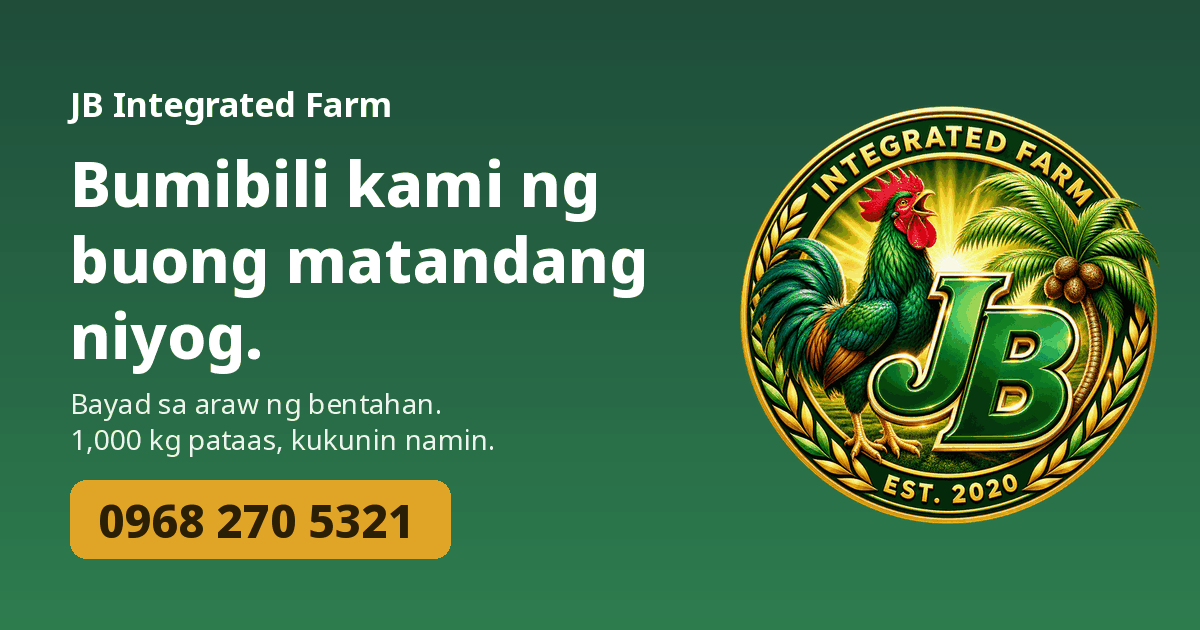
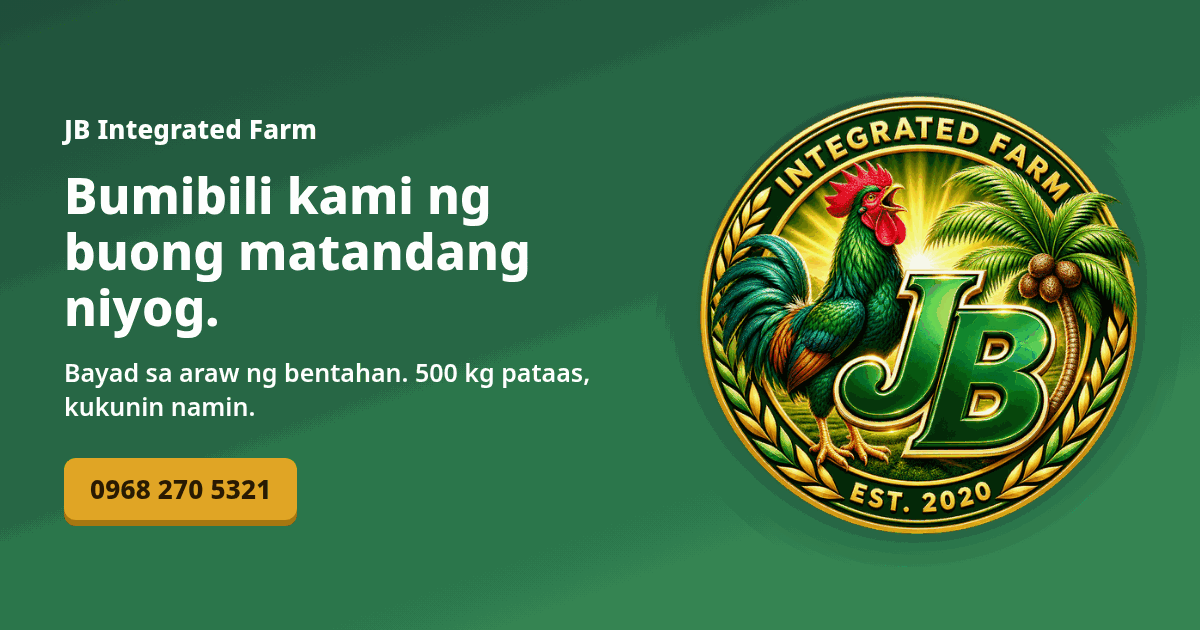
feat(buying): lower pickup threshold to 500 kg (v1.6.7) (#9)
Pickup from the seller location now starts at 500 kg (was 1,000 kg). Updates /buying copy, FAQ JSON-LD, share image, tests, and SW cache.

diff --git a/buying/index.html b/buying/index.html
@@ -4,7 +4,7 @@
 <meta charset="utf-8">
 <meta name="viewport" content="width=device-width,initial-scale=1,viewport-fit=cover">
 <title>Magbenta ng Buong Niyog sa JB Integrated Farm | Tawag 0968 270 5321</title>
-<meta name="description" content="Bumibili kami ng buong matandang niyog. Kami na ang gagawa ng kopra. Bayad ka sa araw ng bentahan. 1,000 kg pataas, kukunin namin sa inyong lugar. Wala pang 1,000 kg? Dalhin sa amin sa Purok 2, Ohong-Duque Road, Taguibo, Butuan City. Tawag 0968 270 5321.">
+<meta name="description" content="Bumibili kami ng buong matandang niyog. Kami na ang gagawa ng kopra. Bayad ka sa araw ng bentahan. 500 kg pataas, kukunin namin sa inyong lugar. Wala pang 500 kg? Dalhin sa amin sa Purok 2, Ohong-Duque Road, Taguibo, Butuan City. Tawag 0968 270 5321.">
 <link rel="canonical" href="https://jbfarmco.com/buying">
 <meta name="theme-color" content="#1f4d3a">
 <meta property="og:type" content="website">
@@ -69,15 +69,15 @@
 "name": "Kukunin ba ninyo ang niyog sa amin?",
 "acceptedAnswer": {
 "@type": "Answer",
-"text": "Oo po, kung 1,000 kg pataas, kukunin namin sa inyong lugar. Tawag lang para ma-schedule."
+"text": "Oo po, kung 500 kg pataas, kukunin namin sa inyong lugar. Tawag lang para ma-schedule."
 }
 },
 {
 "@type": "Question",
-"name": "Wala pang 1,000 kg? Dalhin sa amin.",
+"name": "Wala pang 500 kg? Dalhin sa amin.",
 "acceptedAnswer": {
 "@type": "Answer",
-"text": "Kung wala pang 1,000 kg, ikaw po ang magdadala ng niyog sa amin: Purok 2, Ohong-Duque Road, Taguibo, Butuan City. Tawag muna sa 0968 270 5321 bago pumunta."
+"text": "Kung wala pang 500 kg, ikaw po ang magdadala ng niyog sa amin: Purok 2, Ohong-Duque Road, Taguibo, Butuan City. Tawag muna sa 0968 270 5321 bago pumunta."
 }
 },
 {
@@ -178,7 +178,7 @@ footer{text-align:center;color:var(--m);font-size:14px;padding:22px 0 30px}
   <a class="big call" href="tel:+639682705321">📞 Tawag: 0968 270 5321</a>
   <a class="big sms" href="sms:+639682705321?body=Magandang%20araw%20po%2C%20magbebenta%20po%20ako%20ng%20buong%20matandang%20niyog.%20Ilang%20kilo%3A%20__%20.%20Lugar%3A%20__">💬 Mag-text para sa presyo</a>
  </div>
- <p class="note">1,000 kg pataas? Kukunin namin sa inyong lugar. Wala pang 1,000 kg? Dalhin sa amin sa Purok 2, Ohong-Duque Road, Taguibo, Butuan City.</p>
+ <p class="note">500 kg pataas? Kukunin namin sa inyong lugar. Wala pang 500 kg? Dalhin sa amin sa Purok 2, Ohong-Duque Road, Taguibo, Butuan City.</p>
 </div></div>
 
 <section><div class="wrap">
@@ -189,7 +189,7 @@ footer{text-align:center;color:var(--m);font-size:14px;padding:22px 0 30px}
   <div class="card"><span class="ic">🥥</span><h3>Buo na lang, walang kopra-kopra</h3><p>Hindi mo na kailangang magbalat, magbiyak at magpatuyo. Kami na ang gagawa ng kopra.</p></div>
   <div class="card"><span class="ic">🤝</span><h3>Pinahahalagahan namin ang effort mo</h3><p>Alam namin ang pagod ng mga magsasaka, kaya reasonable ang presyo namin.</p></div>
   <div class="card"><span class="ic">💵</span><h3>Bayad sa araw ng bentahan</h3><p>Hindi ka na maghihintay. Bayad ka sa mismong araw na nagbenta ka.</p></div>
-  <div class="card"><span class="ic">🚚</span><h3>1,000 kg pataas, kukunin namin</h3><p>Kung 1,000 kg pataas ang niyog mo, kukunin namin sa inyong lugar. Wala pang 1,000 kg? Dalhin sa amin sa Purok 2, Ohong-Duque Road, Taguibo, Butuan City.</p></div>
+  <div class="card"><span class="ic">🚚</span><h3>500 kg pataas, kukunin namin</h3><p>Kung 500 kg pataas ang niyog mo, kukunin namin sa inyong lugar. Wala pang 500 kg? Dalhin sa amin sa Purok 2, Ohong-Duque Road, Taguibo, Butuan City.</p></div>
   <div class="card"><span class="ic">📞</span><h3>Isang tawag lang</h3><p>Tawag, text o WhatsApp sa 0968 270 5321. Simple lang ang usapan.</p></div>
  </div>
 </div></section>
@@ -212,7 +212,7 @@ footer{text-align:center;color:var(--m);font-size:14px;padding:22px 0 30px}
  <p class="sub">Walang komplikado.</p>
  <div class="grid g4">
   <div class="card step"><span class="num">1</span><h3>Tawag o text</h3><p>Sabihin ang dami at lugar.</p></div>
-  <div class="card step"><span class="num">2</span><h3>Usapan</h3><p>Pag-usapan ang presyo. 1,000 kg pataas, pickup sa inyong lugar. Wala pang 1,000 kg, dalhin sa aming address.</p></div>
+  <div class="card step"><span class="num">2</span><h3>Usapan</h3><p>Pag-usapan ang presyo. 500 kg pataas, pickup sa inyong lugar. Wala pang 500 kg, dalhin sa aming address.</p></div>
   <div class="card step"><span class="num">3</span><h3>Bentahan</h3><p>Bentahan at bayad sa araw na iyon.</p></div>
   <div class="card step"><span class="num">4</span><h3>Kami na ang bahala</h3><p>Kami na ang bahala sa kopra.</p></div>
  </div>
@@ -221,7 +221,7 @@ footer{text-align:center;color:var(--m);font-size:14px;padding:22px 0 30px}
 <section id="saan"><div class="wrap">
  <p class="kick">Saan kami</p>
  <h2>Dalhin dito</h2>
- <p class="sub">1,000 kg pataas: kukunin namin sa inyong lugar. Wala pang 1,000 kg: dalhin ang niyog sa aming address.</p>
+ <p class="sub">500 kg pataas: kukunin namin sa inyong lugar. Wala pang 500 kg: dalhin ang niyog sa aming address.</p>
  <div class="card" id="addr"><span class="ic">📍</span><h3>JB Integrated Farm</h3><p><b>Purok 2, Ohong-Duque Road, Taguibo, Butuan City</b></p><p class="small">Tawag muna sa <a href="tel:+639682705321">0968 270 5321</a> bago pumunta.</p><a class="big call" href="https://www.google.com/maps/search/?api=1&amp;query=Purok+2%2C+Ohong-Duque+Road%2C+Taguibo%2C+Butuan+City" target="_blank" rel="noopener" style="max-width:420px">🗺 Buksan sa Google Maps</a></div>
 </div></section>
 
@@ -254,8 +254,8 @@ footer{text-align:center;color:var(--m);font-size:14px;padding:22px 0 30px}
   <details><summary>Kailangan ko pa bang gawing kopra?</summary><p>Hindi na po. Kami na ang bahala sa kopra. Ibenta mo lang ang buong matandang niyog.</p></details>
   <details><summary>Magkano ang bili ninyo?</summary><p>Nagbabago ang presyo ayon sa merkado. Tawag o text lang sa 0968 270 5321 para sa presyo ngayon.</p></details>
   <details><summary>Kailan ako mababayaran?</summary><p>Bayad ka sa araw ng bentahan.</p></details>
-  <details><summary>Kukunin ba ninyo ang niyog sa amin?</summary><p>Oo po, kung 1,000 kg pataas, kukunin namin sa inyong lugar. Tawag lang para ma-schedule.</p></details>
-  <details><summary>Wala pang 1,000 kg? Dalhin sa amin.</summary><p>Kung wala pang 1,000 kg, ikaw po ang magdadala ng niyog sa amin: Purok 2, Ohong-Duque Road, Taguibo, Butuan City. Tawag muna sa 0968 270 5321 bago pumunta.</p></details>
+  <details><summary>Kukunin ba ninyo ang niyog sa amin?</summary><p>Oo po, kung 500 kg pataas, kukunin namin sa inyong lugar. Tawag lang para ma-schedule.</p></details>
+  <details><summary>Wala pang 500 kg? Dalhin sa amin.</summary><p>Kung wala pang 500 kg, ikaw po ang magdadala ng niyog sa amin: Purok 2, Ohong-Duque Road, Taguibo, Butuan City. Tawag muna sa 0968 270 5321 bago pumunta.</p></details>
   <details><summary>Ano ang kailangan kong sabihin pag tumawag ako?</summary><p>Ilang kilo ang niyog mo (kahit tantya lang) at saan ang lugar mo. Yun lang muna.</p></details>
   <details><summary>Paano kayo makokontak?</summary><p>Tawag o text sa 0968 270 5321. Pwede rin sa WhatsApp, parehong numero.</p></details>
  </div>

diff --git a/tests/brand.test.js b/tests/brand.test.js
@@ -17,15 +17,15 @@ test('buying page SEO, JSON-LD and no price claim',()=>{const b=rd('buying/index
   const ld=[...b.matchAll(/<script type="application\/ld\+json">([\s\S]*?)<\/script>/g)].map(m=>JSON.parse(m[1]));const org=ld.find(x=>x['@type']==='LocalBusiness');assert.deepEqual(Object.keys(org).sort(),['@context','@type','address','name','telephone','url']);assert.equal(org.address.addressLocality,'Butuan City');assert.equal(org.address.addressCountry,'PH');assert.equal(org.telephone,'+639682705321');
   const faq=ld.find(x=>x['@type']==='FAQPage');assert.ok(faq.mainEntity.length>=6&&faq.mainEntity.length<=8);
   assert.ok(b.includes("var PRICE_TODAY='';"));assert.ok(!/₱\s*\d|PHP\s*[1-9]/.test(b.replace(/\/\/ PRICE:.*\n/,'')));assert.ok(!b.includes('\u2014'));assert.ok(!/serviceWorker|rel="manifest"/.test(b));assert.ok(fs.existsSync(path.join(ROOT,'buying/og.png')))});
-test('version consistency 1.6.6',()=>{const v=rd('version.js').match(/APP_VERSION='([^']+)'/)[1],s=rd('sw.js').match(/SW_VERSION='([^']+)'/)[1];assert.equal(v,'1.6.6');assert.equal(s,v);assert.ok(rd('README.md').includes('v1.6.6'))});
+test('version consistency 1.6.7',()=>{const v=rd('version.js').match(/APP_VERSION='([^']+)'/)[1],s=rd('sw.js').match(/SW_VERSION='([^']+)'/)[1];assert.equal(v,'1.6.7');assert.equal(s,v);assert.ok(rd('README.md').includes('v1.6.7'))});
 test('SW sends /buying to the network, never the app shell',()=>{const s=rd('sw.js');assert.ok(s.includes('isBuying(u)'));assert.ok(!/respondWith\([^)]*index\.html/.test(s))});
-test('buying offer: whole matured coconuts, tagline, 1,000 kg pickup, no dried copra claim',()=>{const b=rd('buying/index.html');
+test('buying offer: whole matured coconuts, tagline, 500 kg pickup, no dried copra claim',()=>{const b=rd('buying/index.html');
   assert.ok(b.includes('Iwan mo na sa amin ang hassle, kami na ang gagawa ng kopra. Bayad ka sa araw ng bentahan.'));
-  assert.ok(b.includes('1,000 kg pataas, kukunin namin sa inyong lugar')&&!/\b200 ?kg/.test(b));assert.ok(/buong matandang niyog/.test(b)&&!/matured|hinog na hinog|tinatapahan|pagbiyak|pagbabalat|\bdala\b|drop-off/i.test(b));
+  assert.ok(b.includes('500 kg pataas, kukunin namin sa inyong lugar')&&!/\b200 ?kg/.test(b));assert.ok(/buong matandang niyog/.test(b)&&!/matured|hinog na hinog|tinatapahan|pagbiyak|pagbabalat|\bdala\b|drop-off/i.test(b));
   assert.ok(!/dried copra|tuyong kopra|libre|free pickup/i.test(b));assert.ok(!/Tinitimbang sa harap|mismo ang sasagot|depende sa dami/i.test(b));
-  assert.ok(b.includes('Wala pang 1,000 kg? Dalhin sa amin.')&&!b.includes('pinakamainam'));assert.ok(b.includes('Nagbabago ang presyo ayon sa merkado'));assert.ok(b.includes('Tawag para sa presyo ngayon'))});
+  assert.ok(b.includes('Wala pang 500 kg? Dalhin sa amin.')&&!b.includes('pinakamainam'));assert.ok(b.includes('Nagbabago ang presyo ayon sa merkado'));assert.ok(b.includes('Tawag para sa presyo ngayon'))});
 
-test('buying address + below 1,000 kg delivery',()=>{const b=rd('buying/index.html');assert.ok(b.includes('Purok 2, Ohong-Duque Road, Taguibo, Butuan City'));assert.ok(b.includes('Wala pang 1,000 kg? Dalhin sa amin.'));assert.ok(b.includes('google.com/maps/search/?api=1'));assert.ok(/"addressLocality": "Butuan City"/.test(b)&&/"addressCountry": "PH"/.test(b));assert.ok(b.includes('Tawag para sa presyo ngayon'));assert.ok(rd('app.js').includes('Purok 2, Ohong-Duque Road, Taguibo, Butuan City'))});
+test('buying address + below 500 kg delivery',()=>{const b=rd('buying/index.html');assert.ok(b.includes('Purok 2, Ohong-Duque Road, Taguibo, Butuan City'));assert.ok(b.includes('Wala pang 500 kg? Dalhin sa amin.'));assert.ok(b.includes('google.com/maps/search/?api=1'));assert.ok(/"addressLocality": "Butuan City"/.test(b)&&/"addressCountry": "PH"/.test(b));assert.ok(b.includes('Tawag para sa presyo ngayon'));assert.ok(rd('app.js').includes('Purok 2, Ohong-Duque Road, Taguibo, Butuan City'))});
 
 test('v1.6.3 logo files exist, are small, transparent and referenced',()=>{const files=['icons/logo.png','icons/logo-160.png','icons/logo-160.webp','icons/logo-320.webp','icons/favicon-32.png','icons/apple-touch-icon.png','icons/icon-192.png','icons/icon-512.png','icons/og-image.jpg','favicon.ico','buying/og.png'];
   for(const f of files){const p=path.join(ROOT,f);assert.ok(fs.existsSync(p),f);assert.ok(fs.statSync(p).size<150*1024,f+' under 150 KB')}

diff --git a/tests/unit.test.js b/tests/unit.test.js
@@ -106,7 +106,7 @@ test('FIX4 sw never caches Supabase/API/cross-origin; cache name embedded in sw.
   const src=fs.readFileSync(path.join(ROOT,'sw.js'),'utf8');vm.runInNewContext(src+';this.isApi=isApi;this.V=V',ctx);const u=x=>new URL(x);
   assert.ok(ctx.isApi(u('https://abc.supabase.co/rest/v1/batches')));assert.ok(ctx.isApi(u('https://jbfarmco.com/auth/v1/token')));assert.ok(ctx.isApi(u('https://cdn.example.com/x.js')));
   assert.ok(!ctx.isApi(u('https://jbfarmco.com/app.js')));const ver=fs.readFileSync(path.join(ROOT,'version.js'),'utf8').match(/APP_VERSION='([\d.]+)'/)[1];
-  assert.equal(ver,'1.6.6');assert.equal(ctx.V,'kopra-'+ver)});
+  assert.equal(ver,'1.6.7');assert.equal(ctx.V,'kopra-'+ver)});
 test('v1.3.1 BLOCKER1 sw.js embeds the release version (bytes change every release), no importScripts, cache:reload',()=>{const src=fs.readFileSync(path.join(ROOT,'sw.js'),'utf8');
   const ver=fs.readFileSync(path.join(ROOT,'version.js'),'utf8').match(/APP_VERSION='([\d.]+)'/)[1];assert.ok(src.includes(`const SW_VERSION='${ver}'`));assert.ok(!/importScripts/.test(src));assert.ok(src.includes("cache:'reload'"))});
 test('SF CNAME + README signup note',()=>{assert.equal(fs.readFileSync(path.join(ROOT,'CNAME'),'utf8').trim(),'jbfarmco.com');assert.match(fs.readFileSync(path.join(ROOT,'README.md'),'utf8'),/disable.*sign.?ups/i)});

diff --git a/sw.js b/sw.js
@@ -1,6 +1,6 @@
 // JB Integrated Farm app service worker (cache prefix stays kopra- so old caches are cleaned and data is untouched). SW_VERSION MUST equal APP_VERSION in version.js (unit test enforces it).
 // It is embedded here on purpose: browsers only install a new worker when sw.js bytes change.
-const SW_VERSION='1.6.6';
+const SW_VERSION='1.6.7';
 const V='kopra-'+SW_VERSION;
 const F=['./','./index.html','./app.js','./calc.js','./db.js','./sync.js','./seed.js','./version.js','./style.css','./lib/chart.umd.min.js','./manifest.webmanifest','./icons/icon-192.png','./icons/icon-512.png','./icons/logo.png','./icons/logo-160.png','./icons/logo-160.webp','./icons/logo-320.webp','./icons/apple-touch-icon.png','./icons/favicon-32.png','./favicon.ico'];
 // cache:'reload' so a new release never pre-caches stale files from the HTTP cache.

diff --git a/version.js b/version.js
@@ -1,3 +1,3 @@
 // Bump on EVERY release (semver) — and bump SW_VERSION in sw.js to the SAME value (a unit test enforces this).
 // The version string must live inside sw.js itself so its bytes change; otherwise installed phones never see an update.
-self.APP_VERSION='1.6.6';
+self.APP_VERSION='1.6.7';

diff --git a/tests/e2e.py b/tests/e2e.py
@@ -180,7 +180,7 @@ with sync_playwright() as p:
   ctx.set_offline(True);pg.reload();pg.wait_for_function("window.__K");ok("works offline (SW cache)",pg.evaluate("Object.keys(Chart.instances).length")>=4);ctx.set_offline(False)
   ok("no JS errors",not errs,"; ".join(errs[:3]))
   f=b.new_page(viewport={"width":390,"height":844});f.goto(U+"?sync=1");f.wait_for_function("window.__K");f.click("nav button[data-v=more]");ok("SF sync card shown only with flag",f.locator("#synccard").count()==1)
-  ok("version shown v1.4.0","v1.6.6" in f.inner_text("#v-more"))
+  ok("version shown v1.4.0","v1.6.7" in f.inner_text("#v-more"))
   # v1.2 -> v1.3 IndexedDB migration on a phone with existing data
   m=b.new_context(viewport={"width":390,"height":844});mp=m.new_page();mp.goto(U.replace("index.html","manifest.webmanifest"))
   mp.evaluate("""async()=>{const src=await (await fetch('seed.js')).text();const SEED=new Function(src+';return SEED')();
@@ -206,11 +206,11 @@ with sync_playwright() as p:
     up.evaluate("(async()=>{const r=await store.save('batches',{no:11,source:'Phone batch before upgrade',rawKg:1000,buyTotal:9000,copraKg:0})})()");up.wait_for_timeout(300)
     os.remove(base+"/cur");os.symlink(base+"/new",base+"/cur")   # server now serves v1.3.1
     up.evaluate("navigator.serviceWorker.getRegistration().then(r=>r.update())")
-    up.wait_for_function("caches.keys().then(k=>window.__ck=k)&&window.__ck&&window.__ck.length===1&&window.__ck[0]==='kopra-1.6.6'",timeout=20000,polling=300)
+    up.wait_for_function("caches.keys().then(k=>window.__ck=k)&&window.__ck&&window.__ck.length===1&&window.__ck[0]==='kopra-1.6.7'",timeout=20000,polling=300)
     up.reload();up.wait_for_function("window.__K");KU=up.evaluate("window.__K")
-    ok("UPGRADE: SW updated, cache bumped to kopra-1.6.6 (old cache gone), page runs v1.6.6",up.evaluate("self.APP_VERSION")=="1.6.6" and up.evaluate("caches.keys()")==["kopra-1.6.6"] and up.evaluate("fetch('sw.js').then(r=>r.text()).then(t=>t.includes(\"SW_VERSION='1.6.6'\"))"))
+    ok("UPGRADE: SW updated, cache bumped to kopra-1.6.7 (old cache gone), page runs v1.6.7",up.evaluate("self.APP_VERSION")=="1.6.7" and up.evaluate("caches.keys()")==["kopra-1.6.7"] and up.evaluate("fetch('sw.js').then(r=>r.text()).then(t=>t.includes(\"SW_VERSION='1.6.7'\"))"))
     ok("UPGRADE: migration ran (6 sold burns -> pool sales), no data lost",up.evaluate("D.uling_sales.length")==6 and abs(KU['char']['ulingSales']-18693)<.01 and any(r['source']=='Phone batch before upgrade' for r in KU['rows']) and abs(KU['raw']-30366)<.01)
-    uc.set_offline(True);up.reload();up.wait_for_function("window.__K");ok("UPGRADE: v1.6.6 works offline from new cache",up.evaluate("self.APP_VERSION")=="1.6.6");uc.close()
+    uc.set_offline(True);up.reload();up.wait_for_function("window.__K");ok("UPGRADE: v1.6.7 works offline from new cache",up.evaluate("self.APP_VERSION")=="1.6.7");uc.close()
   finally:srv.terminate();srv.wait()
   # ================= v1.4.0 Lifetime tab (example items are TEST-ONLY) =================
   lc=b.new_context(viewport={"width":390,"height":844},device_scale_factor=2,is_mobile=True,has_touch=True);lp=lc.new_page();lerr=[];lp.on("pageerror",lambda e:lerr.append(str(e)))

diff --git a/README.md b/README.md
@@ -1,5 +1,8 @@
-# JB Integrated Farm (formerly Kopra Ko): offline copra + uling tracker (PWA) v1.6.6
+# JB Integrated Farm (formerly Kopra Ko): offline copra + uling tracker (PWA) v1.6.7
 Live site: jbfarmco.com (app) and jbfarmco.com/buying (sales page: we buy whole matured coconuts from farmers).
+
+## v1.6.7: /buying pickup 500 kg+
+- Pickup threshold on `/buying` lowered from 1,000 kg to 500 kg (copy, FAQ, JSON-LD, share image `buying/og.png`). No price added. SW cache `kopra-1.6.7`.
 
 ## v1.6.6: /buying hero VSL
 - `/buying` hero adds a 16:9 VSL video under the headline (`assets/jb-farm-vsl-16x9.mp4`, poster `assets/jb-farm-vsl-16x9-poster.jpg`). Controls only, no autoplay with sound. Video is not SW-precached; `/assets/*.mp4` is network-only in the SW. No price added. SW cache `kopra-1.6.6`.
